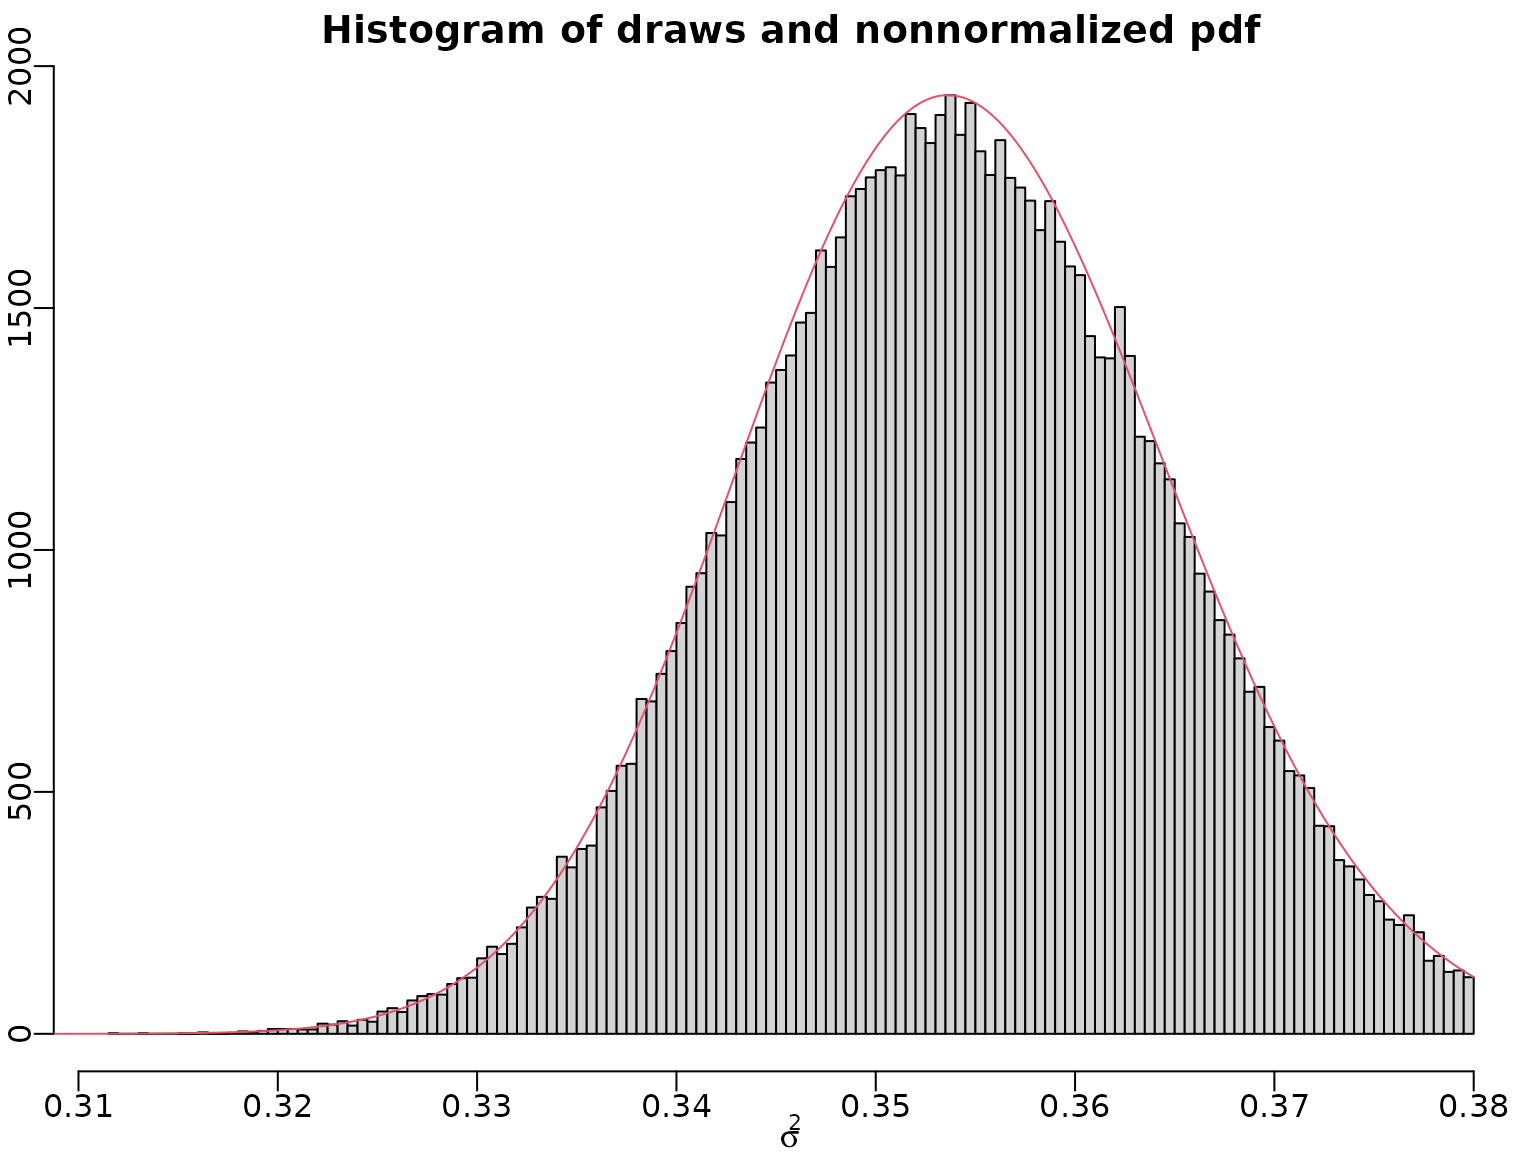
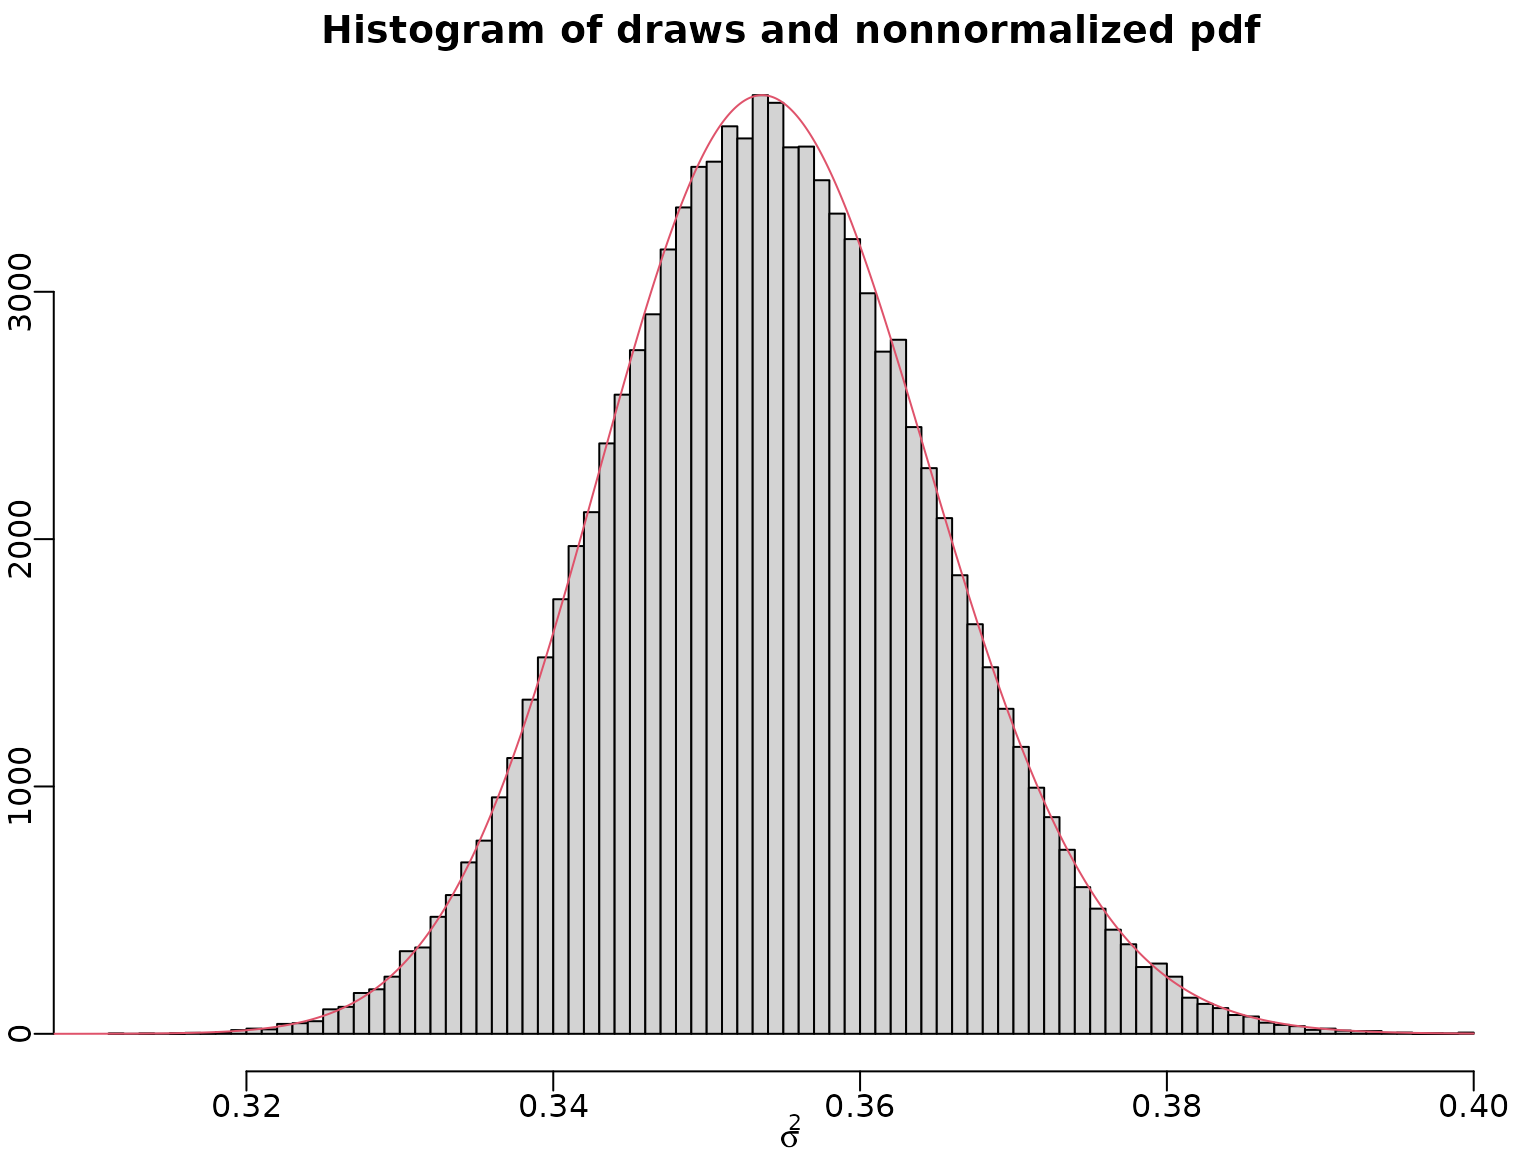
Deploying to gh-pages from @ gregorkastner/BayesianLearningCode@7e854b30f20339656a2025ae8e1f8006f084af22 🚀

diff --git a/articles/Chapter04.html b/articles/Chapter04.html
@@ -265,7 +265,7 @@ evaluating the unnormalized posterior density of
 This function is not vectorized in its first argument,
 <math display="inline" xmlns="http://www.w3.org/1998/Math/MathML"><semantics><msup><mi>σ</mi><mn>2</mn></msup><annotation encoding="application/x-tex">\sigma^2</annotation></semantics></math>.
 Rather, it expects a scalar <em>sigma2</em> and a data vector
-<math display="inline" xmlns="http://www.w3.org/1998/Math/MathML"><semantics><mi>𝐲</mi><annotation encoding="application/x-tex">\mathbf{y}</annotation></semantics></math>.
+<math display="inline" xmlns="http://www.w3.org/1998/Math/MathML"><semantics><mi>y</mi><annotation encoding="application/x-tex">y</annotation></semantics></math>.
 We can, however, vectorize it using <em>Vectorize</em> (this is not the
 fasted of all methods in R, but will do just fine for our use-case).</p>
 <div class="sourceCode" id="cb7"><pre class="downlit sourceCode r">
@@ -278,7 +278,7 @@ fasted of all methods in R, but will do just fine for our use-case).</p>
 <p>Now we can plot.</p>
 <div class="sourceCode" id="cb8"><pre class="downlit sourceCode r">
 <code class="sourceCode R"><span><span class="va">nu</span> <span class="op">&lt;-</span> <span class="fl">7</span></span>
-<span><span class="va">sigma2</span> <span class="op">&lt;-</span> <span class="fu"><a href="https://rdrr.io/r/base/seq.html" class="external-link">seq</a></span><span class="op">(</span><span class="fl">0.27</span>, <span class="fl">0.38</span>, length.out <span class="op">=</span> <span class="fl">3000</span><span class="op">)</span></span>
+<span><span class="va">sigma2</span> <span class="op">&lt;-</span> <span class="fu"><a href="https://rdrr.io/r/base/seq.html" class="external-link">seq</a></span><span class="op">(</span><span class="fl">0.25</span>, <span class="fl">0.4</span>, length.out <span class="op">=</span> <span class="fl">3000</span><span class="op">)</span></span>
 <span><span class="va">pdf_u</span> <span class="op">&lt;-</span> <span class="fu">post_unnormalized</span><span class="op">(</span><span class="va">sigma2</span>, y <span class="op">=</span> <span class="va">y</span>, nu <span class="op">=</span> <span class="va">nu</span><span class="op">)</span></span>
 <span></span>
 <span><span class="fu"><a href="https://rdrr.io/r/graphics/plot.default.html" class="external-link">plot</a></span><span class="op">(</span><span class="va">sigma2</span>, <span class="va">pdf_u</span>, type <span class="op">=</span> <span class="st">"l"</span>, xlab <span class="op">=</span> <span class="fu"><a href="https://rdrr.io/r/base/expression.html" class="external-link">expression</a></span><span class="op">(</span><span class="va">sigma</span><span class="op">^</span><span class="fl">2</span><span class="op">)</span>,</span>
@@ -340,11 +340,11 @@ draws.</p>
 <span>                length.out <span class="op">=</span> <span class="fl">100</span><span class="op">)</span></span>
 <span><span class="fu"><a href="https://rdrr.io/r/graphics/hist.html" class="external-link">hist</a></span><span class="op">(</span><span class="va">qnormdraws</span>, breaks <span class="op">=</span> <span class="va">mybreaks</span>, ylab <span class="op">=</span> <span class="st">""</span>, xlab <span class="op">=</span> <span class="fu"><a href="https://rdrr.io/r/base/bquote.html" class="external-link">bquote</a></span><span class="op">(</span><span class="va">Q</span><span class="op">[</span><span class="fu">.</span><span class="op">(</span><span class="va">alpha</span><span class="op">)</span><span class="op">]</span><span class="op">)</span>,</span>
 <span>     main <span class="op">=</span> <span class="fu"><a href="https://rdrr.io/r/base/bquote.html" class="external-link">bquote</a></span><span class="op">(</span><span class="st">"Histogram of"</span> <span class="op">~</span> <span class="fu">.</span><span class="op">(</span><span class="fl">100</span> <span class="op">*</span> <span class="va">alpha</span><span class="op">)</span> <span class="op">*</span> <span class="st">"%-VaR draws under the"</span> <span class="op">~</span></span>
-<span>                     <span class="fu">N</span><span class="op">(</span><span class="fl">0</span>, <span class="va">sigma</span><span class="op">^</span><span class="fl">2</span><span class="op">)</span> <span class="op">~</span> <span class="st">"likelihood assumption."</span><span class="op">)</span><span class="op">)</span></span>
+<span>                     <span class="fu">N</span><span class="op">(</span><span class="fl">0</span>, <span class="va">sigma</span><span class="op">^</span><span class="fl">2</span><span class="op">)</span> <span class="op">~</span> <span class="st">"likelihood assumption"</span><span class="op">)</span><span class="op">)</span></span>
 <span><span class="fu"><a href="https://rdrr.io/r/graphics/points.html" class="external-link">points</a></span><span class="op">(</span><span class="fu"><a href="https://rdrr.io/r/stats/quantile.html" class="external-link">quantile</a></span><span class="op">(</span><span class="va">y</span>, <span class="va">alpha</span><span class="op">)</span>, <span class="fl">0</span>, col <span class="op">=</span> <span class="fl">2</span><span class="op">)</span></span>
 <span><span class="fu"><a href="https://rdrr.io/r/graphics/hist.html" class="external-link">hist</a></span><span class="op">(</span><span class="va">qtdraws</span>, breaks <span class="op">=</span> <span class="va">mybreaks</span>, ylab <span class="op">=</span> <span class="st">""</span>, xlab <span class="op">=</span> <span class="fu"><a href="https://rdrr.io/r/base/bquote.html" class="external-link">bquote</a></span><span class="op">(</span><span class="va">Q</span><span class="op">[</span><span class="fu">.</span><span class="op">(</span><span class="va">alpha</span><span class="op">)</span><span class="op">]</span><span class="op">)</span>,</span>
 <span>     main <span class="op">=</span> <span class="fu"><a href="https://rdrr.io/r/base/bquote.html" class="external-link">bquote</a></span><span class="op">(</span><span class="st">"Histogram of"</span> <span class="op">~</span> <span class="fu">.</span><span class="op">(</span><span class="fl">100</span> <span class="op">*</span> <span class="va">alpha</span><span class="op">)</span> <span class="op">*</span> <span class="st">"%-VaR draws under the"</span> <span class="op">~</span></span>
-<span>                     <span class="va">t</span><span class="op">[</span><span class="fu">.</span><span class="op">(</span><span class="va">nu</span><span class="op">)</span><span class="op">]</span><span class="op">(</span><span class="fl">0</span>, <span class="va">sigma</span><span class="op">^</span><span class="fl">2</span><span class="op">)</span> <span class="op">~</span> <span class="st">"likelihood assumption."</span><span class="op">)</span><span class="op">)</span></span>
+<span>                     <span class="va">t</span><span class="op">[</span><span class="fu">.</span><span class="op">(</span><span class="va">nu</span><span class="op">)</span><span class="op">]</span><span class="op">(</span><span class="fl">0</span>, <span class="va">sigma</span><span class="op">^</span><span class="fl">2</span><span class="op">)</span> <span class="op">~</span> <span class="st">"likelihood assumption"</span><span class="op">)</span><span class="op">)</span></span>
 <span><span class="fu"><a href="https://rdrr.io/r/graphics/points.html" class="external-link">points</a></span><span class="op">(</span><span class="fu"><a href="https://rdrr.io/r/stats/quantile.html" class="external-link">quantile</a></span><span class="op">(</span><span class="va">y</span>, <span class="va">alpha</span><span class="op">)</span>, <span class="fl">0</span>, col <span class="op">=</span> <span class="fl">2</span><span class="op">)</span></span></code></pre></div>
 <p><img src="Chapter04_files/figure-html/unnamed-chunk-14-1.png" width="768"></p>
 </div>
